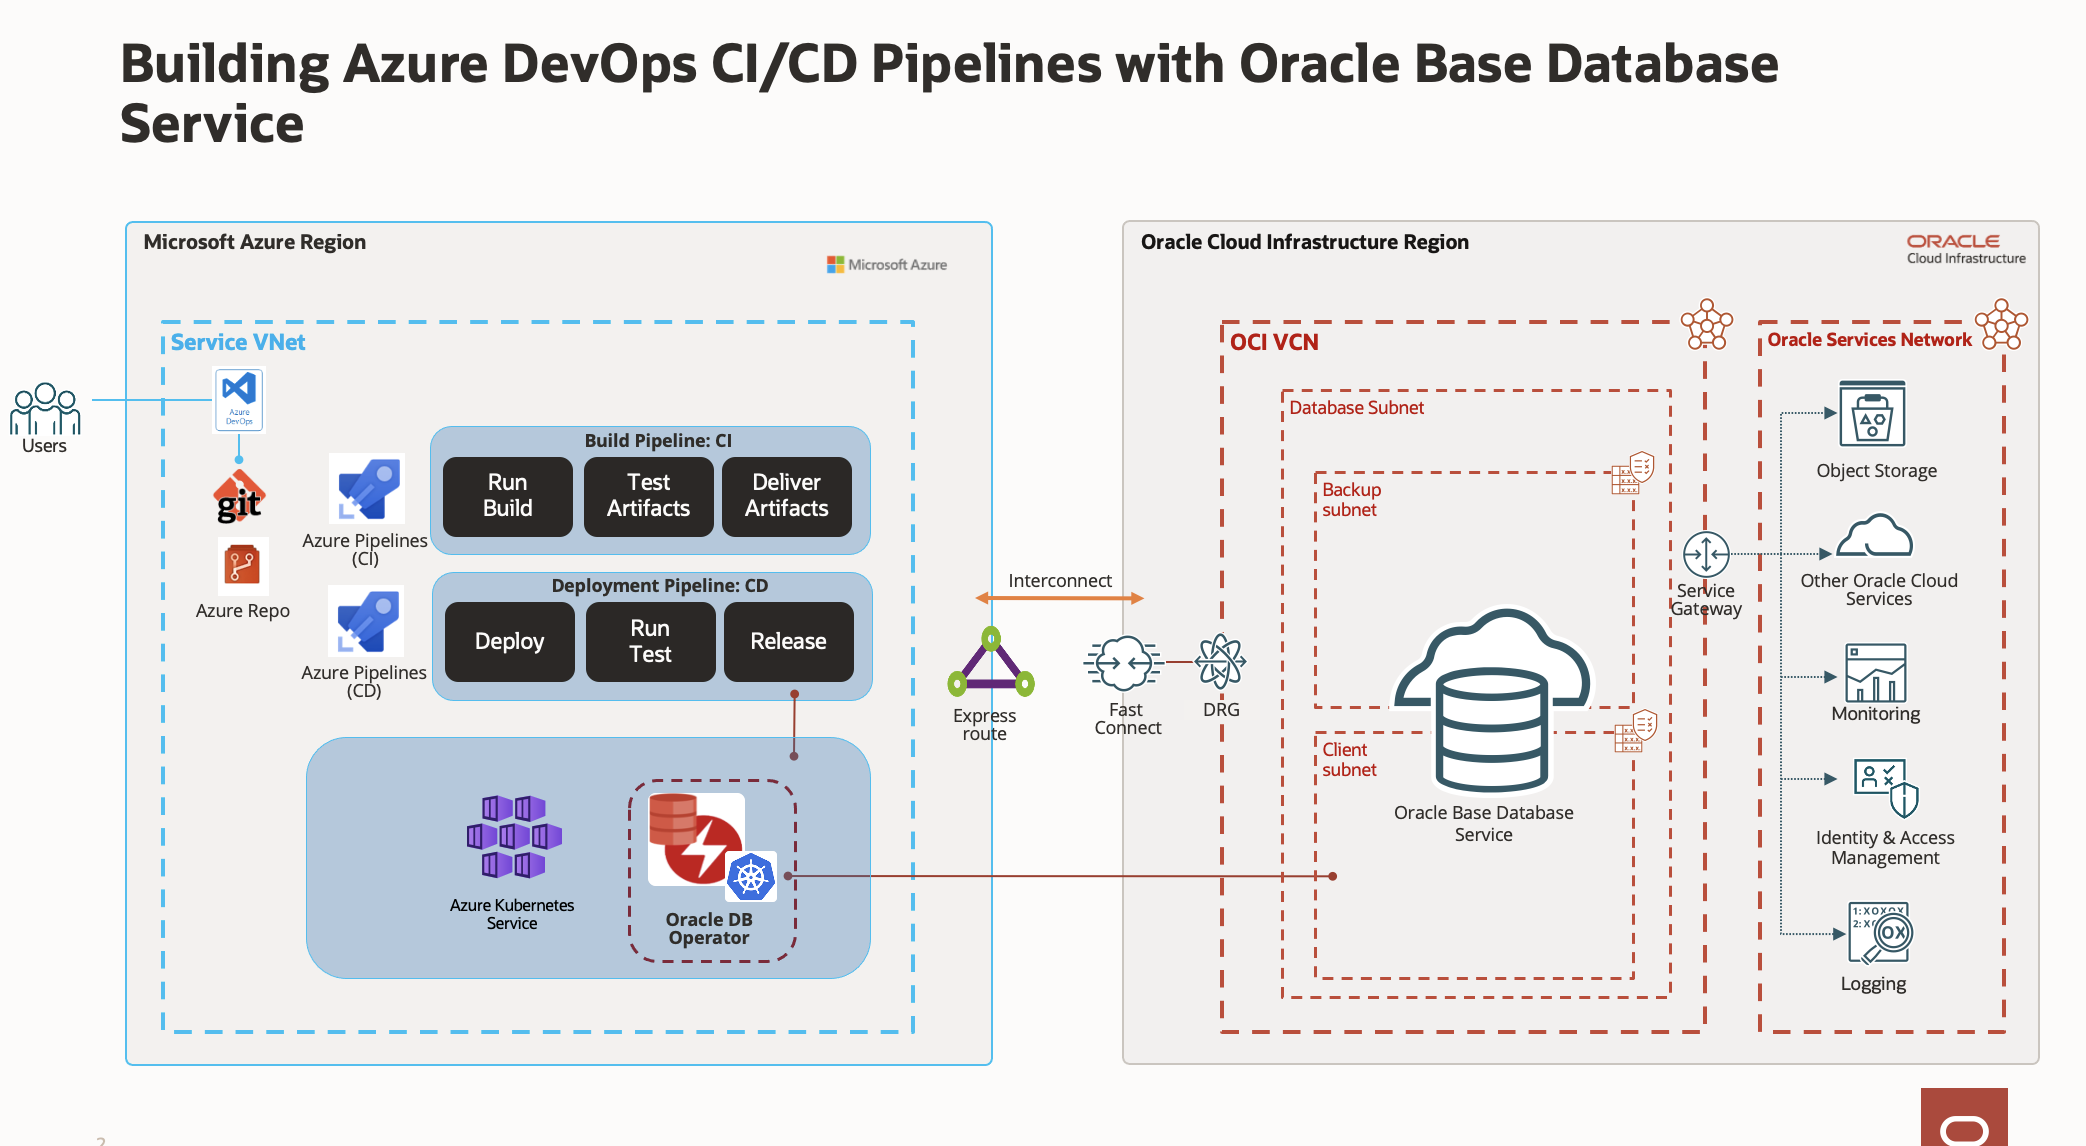
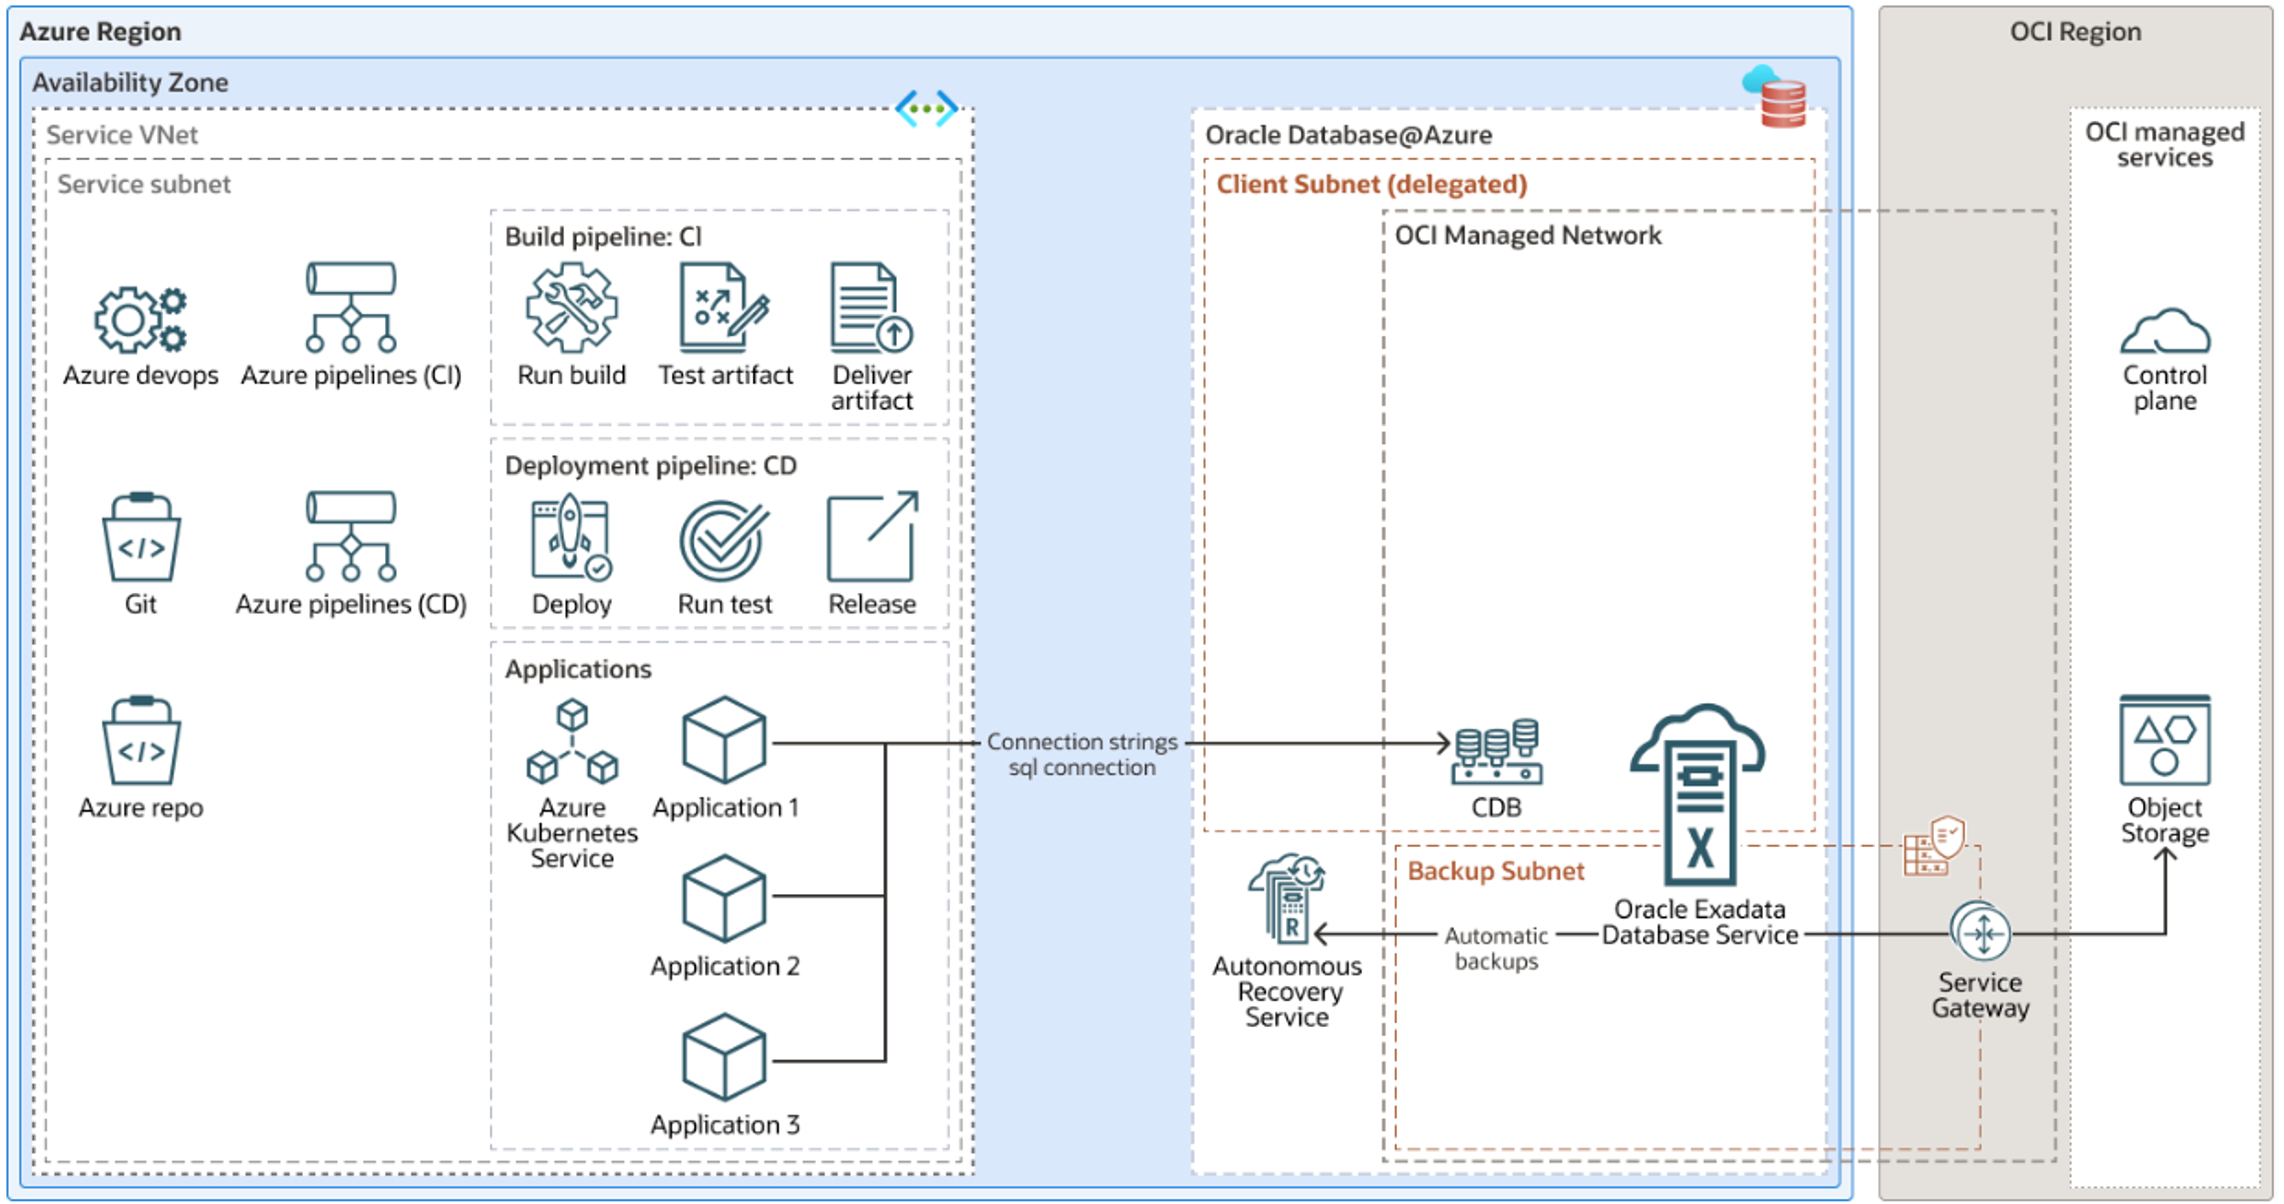
WMS ID: 11494 - Build MultiCloud DevOps using Azure CI/CD Pipelines with Kubernetes and Oracle Database Cloud Services - updated reference architecture diagram and added minor changes (#429)
* Added the updated changes as discussed with Paul

Added the updated changes to include the correct architecture for the HOL

* update manifest.json

updated changes for the title of Lab3

diff --git a/multicloud-azuredevops-oracledb/interconnect/interconnect.md b/multicloud-azuredevops-oracledb/interconnect/interconnect.md
@@ -1,8 +1,8 @@
-# Configure Oracle@Azure or Interconnect
+# Configure Oracle Database@Azure or Interconnect
 
 ## Introduction
 
-In this lab, we will set up either Oracle@Azure or the Interconnect between Azure and OCI and Oracle Database.
+In this lab, we will set up either Oracle Database@Azure or the Interconnect between Azure and OCI and Oracle Database.
 
 Estimated time: 60 minutes
 
@@ -14,11 +14,11 @@ Estimated time: 60 minutes
 
 This lab assumes you have an Azure account and in the case of Interconnect, an OCI account.
 
-## Task 1: Choose between Oracle@Azure or the Interconnect between Azure and OCI and Oracle Database 
+## Task 1: Choose between Oracle Database@Azure or the Interconnect between Azure and OCI and Oracle Database 
 
-1. If you choose to use the Interconnect, please refer to the Workshop found here for setup steps: https://livelabs.oracle.com/pls/apex/r/dbpm/livelabs/view-workshop?wid=3759
+1. If you choose to use Oracle Database@Azure, please refer to https://www.oracle.com/cloud/azure/oracle-database-at-azure/ to connect with an Oracle Database@Azure specialist and view OnBoarding Documentation.
+2. If you choose to use the Interconnect, please refer to the Workshop found here for setup steps: https://livelabs.oracle.com/pls/apex/r/dbpm/livelabs/view-workshop?wid=3759
 
-2. If you choose to use Oracle@Azure, please refer to https://www.oracle.com/cloud/azure/oracle-database-at-azure/ to connect with an Oracle Database@Azure specialist and view OnBoarding Documentation.
 
 This concludes this lab. You can **proceed now to the next lab**.
 
@@ -30,4 +30,4 @@ This concludes this lab. You can **proceed now to the next lab**.
 
 * **Author** - Paul Parkinson, Architect and Developer Advocate, Oracle Database
 
-* **Last Updated By/Date** - 2024.
+* **Last Updated By/Date** - Leo Alvarado, Product Management, April 2025

diff --git a/multicloud-azuredevops-oracledb/createdatabase/createdatabase.md b/multicloud-azuredevops-oracledb/createdatabase/createdatabase.md
@@ -21,7 +21,8 @@ This lab assumes:
 ## Task 1: Determine the Oracle Database Being Used
 
    1. If using Oracle Autonomous Database you may follow the quick process outline in Task 2
-   2. If using Exadata the documentation can be found here: https://docs.oracle.com/en/engineered-systems/exadata-database-machine/
+   2. If using Exadata Database Service on Dedicated Infrastructure on Oracle Database@Azure please refer to the Workshop found here for setup steps: https://apexapps.oracle.com/pls/apex/f?p=133:180:111974277500753::::wid:4010
+   3. If using Exadata Database Service on Exascale Infrastructure on Oracle Database@Azure, please refer to the Workshop found here for setup steps: https://apexapps.oracle.com/pls/apex/f?p=133:180:13724477313165::::wid:4159
 
 ## Task 2: Create an Oracle Autonomous Database if necessary, download the connection information, and create user and table.
 
@@ -84,4 +85,4 @@ This concludes this lab. You can **proceed now to the next lab**.
 
 * **Author** - Paul Parkinson, Architect and Developer Advocate, Oracle Database
 
-* **Last Updated By/Date** - 2024.
+* **Last Updated By/Date** - Leo Alvarado, Product Management, April 2025

diff --git a/multicloud-azuredevops-oracledb/intro/intro.md b/multicloud-azuredevops-oracledb/intro/intro.md
@@ -41,4 +41,4 @@ You may now **proceed to the next lab.**..
 ## Acknowledgements
 
 * **Author** - Paul Parkinson, Architect and Developer Advocate
-* **Last Updated By/Date** - Paul Parkinson, 2024
+* **Last Updated By/Date** - Leo Alvarado, Product Management, April 2025
